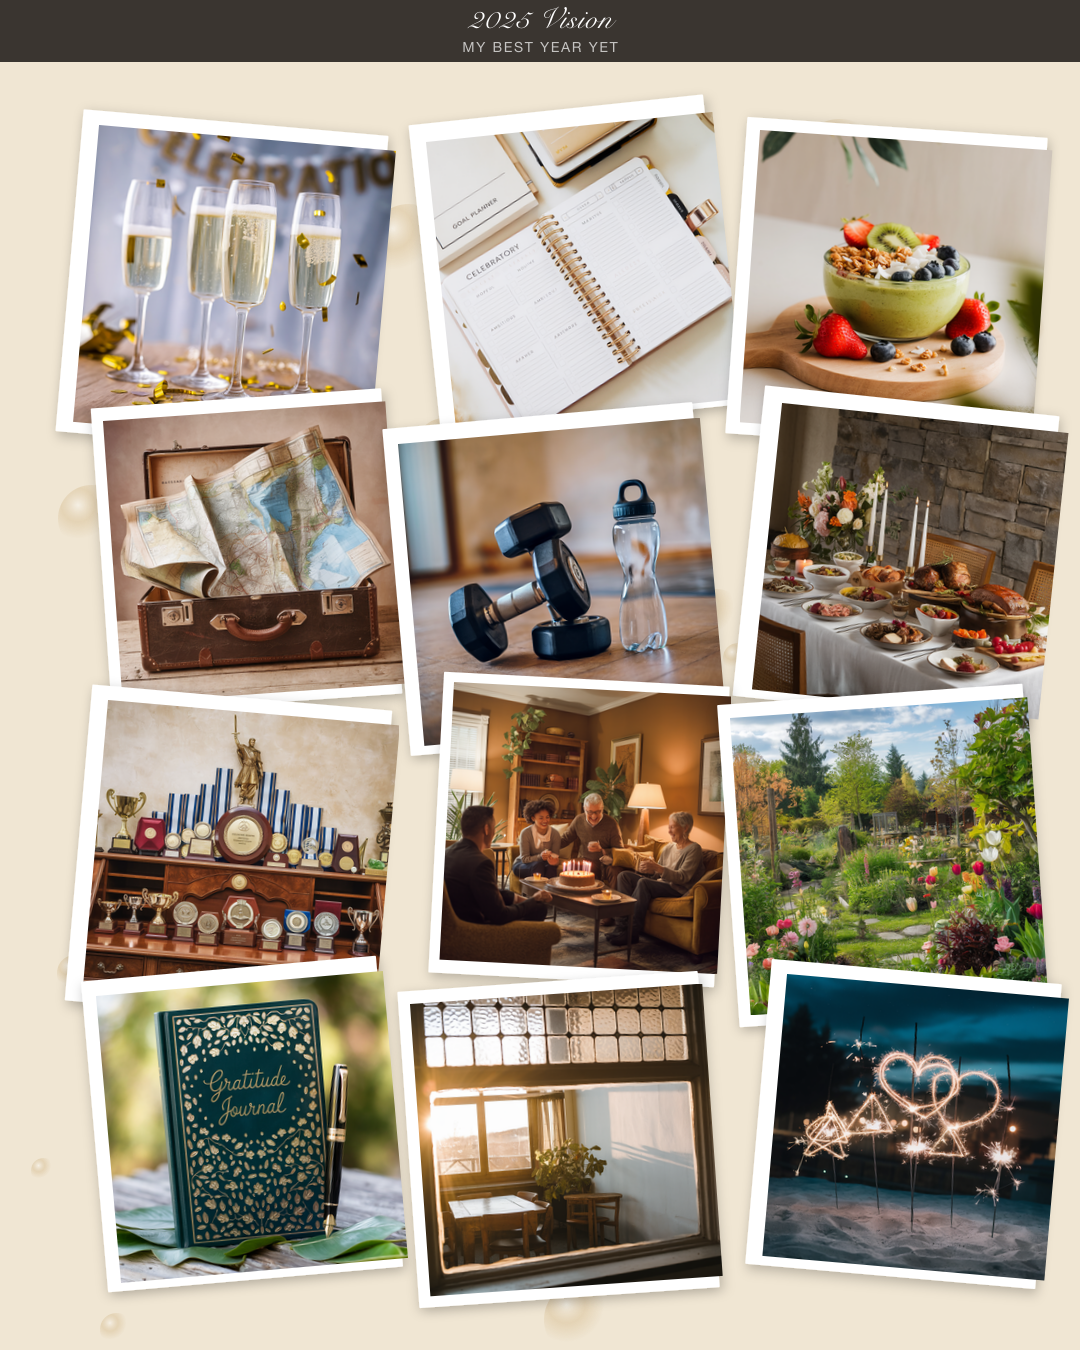
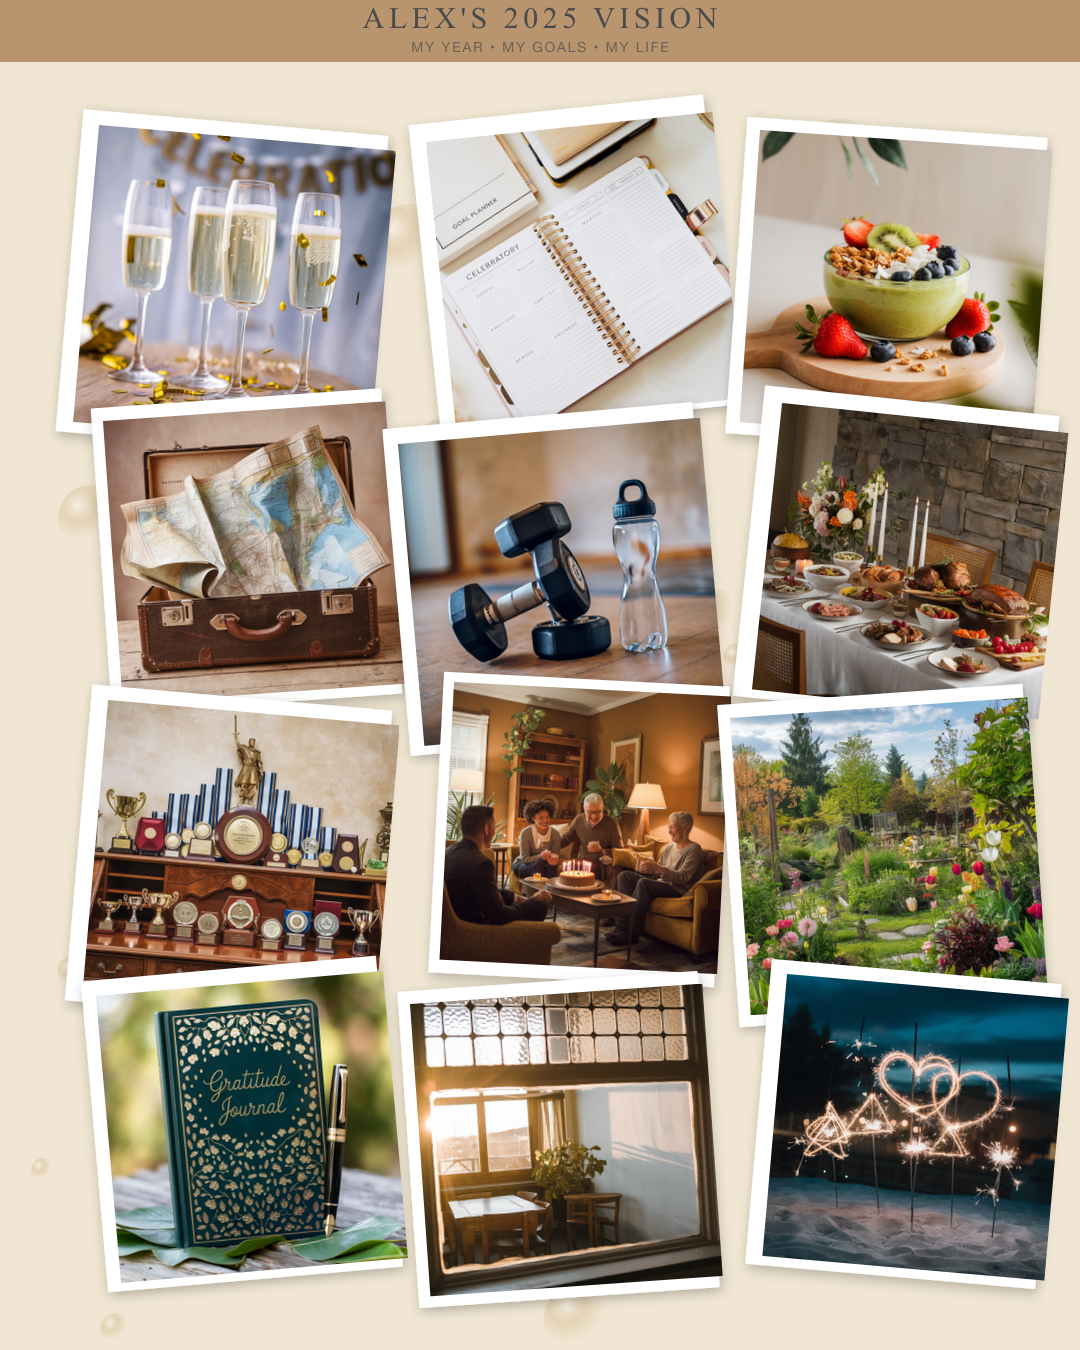
Add personalized titles to vision board demos
Overlays personalized title banners onto existing images:
- JAMES' BEST YEAR YET (male board - gold banner)
- SARAH'S DREAM YEAR (female board - dusty rose banner)
- ALEX'S 2025 VISION (new year board - warm gold banner)

Photos and layout preserved from original curated images.

🤖 Generated with [Claude Code](https://claude.com/claude-code)

Changed region(s): [[0.0, 0.0, 1.0, 0.0622]]

diff --git a/scripts/addTitlesToExistingBoards.js b/scripts/addTitlesToExistingBoards.js
@@ -1,0 +1,171 @@
+/**
+ * Add Personalized Titles to Existing Vision Boards
+ *
+ * This script adds title banners to EXISTING images WITHOUT regenerating photos.
+ * It preserves the carefully curated photos and layouts.
+ */
+
+const sharp = require('sharp');
+const fs = require('fs');
+const path = require('path');
+
+const CANVAS_WIDTH = 1080;
+const BANNER_HEIGHT = 62;
+
+// Typography
+const FONTS = {
+  script: "Snell Roundhand",
+  serifCaps: "Bodoni 72 Smallcaps",
+  sans: "Helvetica Neue, Arial, sans-serif"
+};
+
+const BOARDS = [
+  {
+    id: 'male',
+    inputFile: 'sample-vision-board-male.png',
+    outputFile: 'sample-vision-board-male.png',
+    title: "JAMES' BEST YEAR YET",
+    subtitle: "GOALS • GROWTH • GREATNESS",
+    colors: {
+      banner: '#c9a962',       // Gold
+      bannerText: '#ffffff',
+      bannerSubtext: 'rgba(255,255,255,0.7)'
+    },
+    style: 'masculine'
+  },
+  {
+    id: 'female',
+    inputFile: 'sample-vision-board-female.png',
+    outputFile: 'sample-vision-board-female.png',
+    title: "SARAH'S DREAM YEAR",
+    subtitle: "LOVE • DREAM • SHINE",
+    colors: {
+      banner: '#d4a5a5',       // Dusty rose
+      bannerText: '#8b5a5a',
+      bannerSubtext: 'rgba(139,90,90,0.7)'
+    },
+    style: 'feminine'
+  },
+  {
+    id: 'newyear',
+    inputFile: 'sample-vision-board-newyear.png',
+    outputFile: 'sample-vision-board-newyear.png',
+    title: "ALEX'S 2025 VISION",
+    subtitle: "MY YEAR • MY GOALS • MY LIFE",
+    colors: {
+      banner: '#b8956e',       // Warm gold
+      bannerText: '#4a4a4a',
+      bannerSubtext: 'rgba(74,74,74,0.7)'
+    },
+    style: 'neutral'
+  }
+];
+
+function escapeXml(t) {
+  return t.replace(/&/g, '&amp;').replace(/</g, '&lt;').replace(/>/g, '&gt;').replace(/"/g, '&quot;').replace(/'/g, '&apos;');
+}
+
+function toTitleCase(str) {
+  return str.toLowerCase().replace(/(?:^|\s)\S/g, char => char.toUpperCase());
+}
+
+function createBannerSVG(width, title, subtitle, colors, style) {
+  const height = BANNER_HEIGHT;
+
+  // For masculine, use uppercase. For feminine, use title case
+  const isMasculine = style === 'masculine' || style === 'neutral';
+  const displayTitle = isMasculine ? title.toUpperCase() : toTitleCase(title);
+  const fontFamily = isMasculine ? FONTS.serifCaps : FONTS.script;
+  const letterSpacing = isMasculine ? '0.15em' : '0.02em';
+  const titleSize = Math.min(30, Math.floor(width * 0.75 / displayTitle.length * 1.8));
+
+  return `<svg width="${width}" height="${height}" xmlns="http://www.w3.org/2000/svg">
+    <rect width="100%" height="100%" fill="${colors.banner}"/>
+    <text x="${width/2}" y="${subtitle ? 28 : 38}" text-anchor="middle"
+          font-family="${fontFamily}" font-size="${titleSize}px" font-weight="400"
+          letter-spacing="${letterSpacing}" fill="${colors.bannerText}">${escapeXml(displayTitle)}</text>
+    ${subtitle ? `<text x="${width/2}" y="52" text-anchor="middle" font-family="${FONTS.sans}"
+          font-size="14px" letter-spacing="0.12em" fill="${colors.bannerSubtext}">${escapeXml(subtitle.toUpperCase())}</text>` : ''}
+  </svg>`;
+}
+
+async function addTitleToBoard(board) {
+  const inputPath = path.join(__dirname, '../public/demos', board.inputFile);
+  const outputPath = path.join(__dirname, '../public/demos', board.outputFile);
+
+  console.log(`\nProcessing: ${board.id}`);
+  console.log(`  Title: "${board.title}"`);
+  console.log(`  Input: ${inputPath}`);
+
+  // Check if input exists
+  if (!fs.existsSync(inputPath)) {
+    console.error(`  ❌ Input file not found: ${inputPath}`);
+    return false;
+  }
+
+  try {
+    // Read the existing image
+    const existingImage = await sharp(inputPath).toBuffer();
+    const metadata = await sharp(existingImage).metadata();
+    console.log(`  Image size: ${metadata.width}x${metadata.height}`);
+
+    // Create the banner SVG
+    const bannerSVG = createBannerSVG(
+      CANVAS_WIDTH,
+      board.title,
+      board.subtitle,
+      board.colors,
+      board.style
+    );
+
+    // Convert banner SVG to PNG buffer
+    const bannerBuffer = await sharp(Buffer.from(bannerSVG)).png().toBuffer();
+
+    // Composite the banner on top of the existing image at position (0, 0)
+    const result = await sharp(existingImage)
+      .composite([{
+        input: bannerBuffer,
+        top: 0,
+        left: 0
+      }])
+      .png()
+      .toBuffer();
+
+    // Save the result
+    fs.writeFileSync(outputPath, result);
+    console.log(`  ✅ Saved: ${outputPath}`);
+
+    return true;
+  } catch (error) {
+    console.error(`  ❌ Error: ${error.message}`);
+    return false;
+  }
+}
+
+async function main() {
+  console.log('======================================================================');
+  console.log('   ADD PERSONALIZED TITLES TO EXISTING VISION BOARDS');
+  console.log('   (Preserves existing photos and layout)');
+  console.log('======================================================================');
+
+  let successCount = 0;
+
+  for (const board of BOARDS) {
+    const success = await addTitleToBoard(board);
+    if (success) successCount++;
+  }
+
+  console.log('\n======================================================================');
+  console.log(`   COMPLETE: ${successCount}/${BOARDS.length} boards updated`);
+  console.log('======================================================================\n');
+
+  if (successCount === BOARDS.length) {
+    console.log('All boards now have personalized titles!');
+    console.log('Next steps:');
+    console.log('  1. git add public/demos/sample-vision-board-*.png');
+    console.log('  2. git commit -m "Add personalized titles to vision board demos"');
+    console.log('  3. git push origin main');
+  }
+}
+
+main().catch(console.error);
